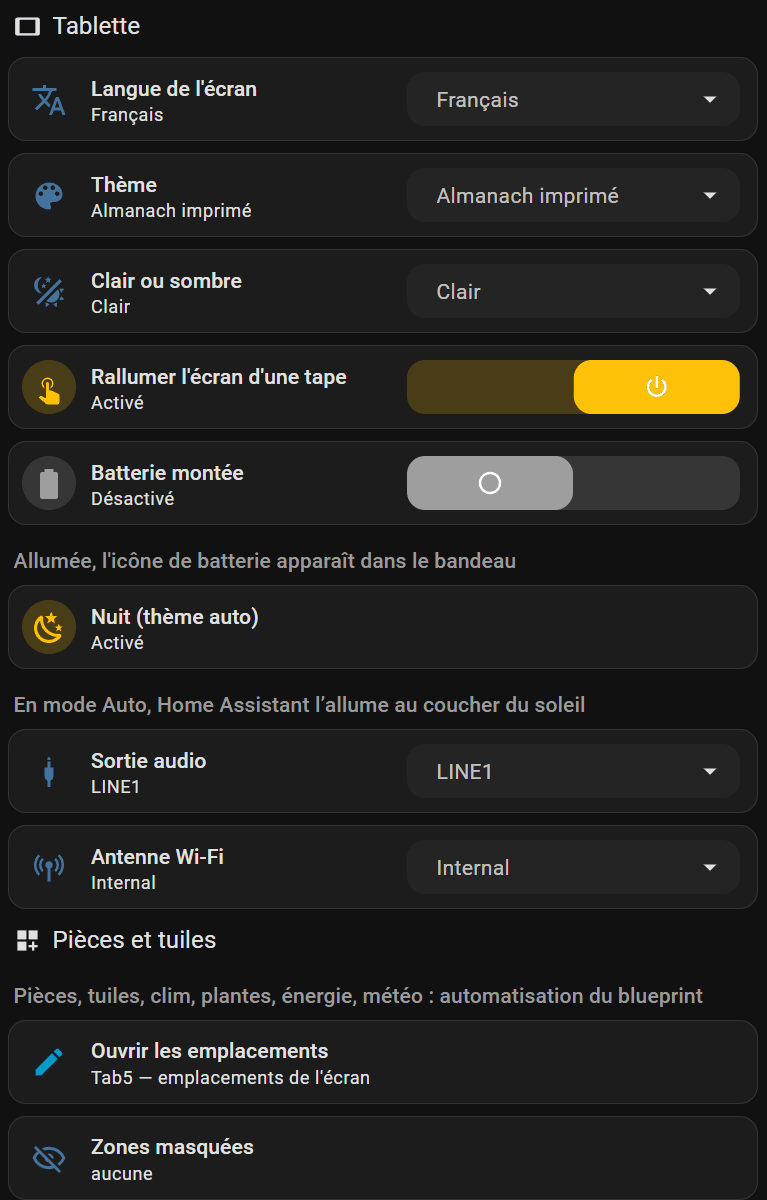
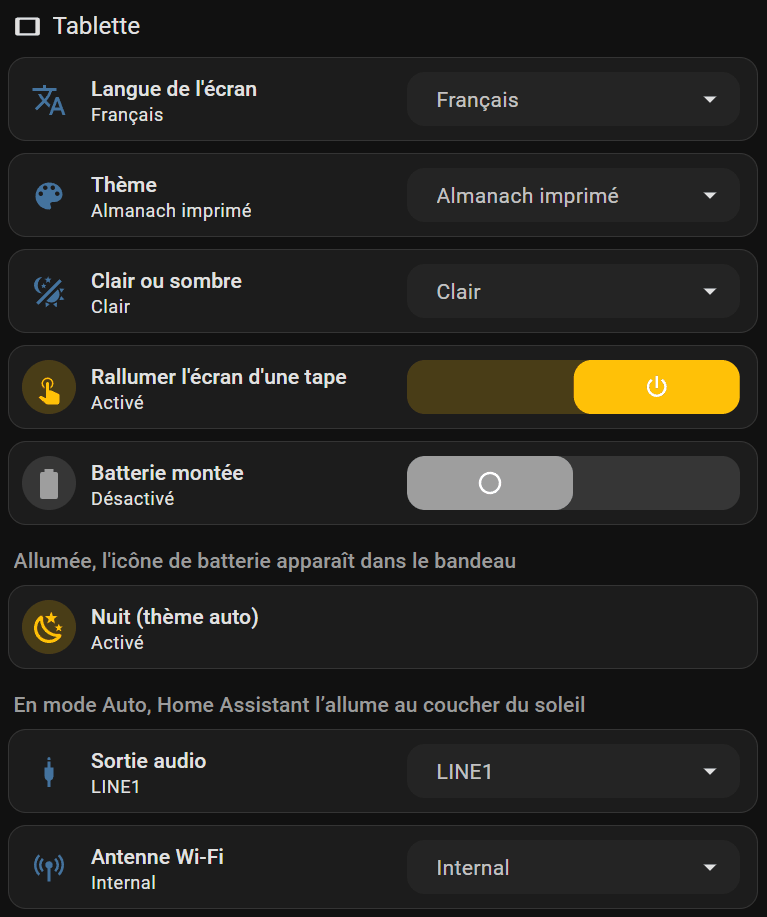
feat(ha): vue Réglages du tableau de bord, tout pour régler la tablette (#326)
* feat(ha): vue Réglages du tableau de bord, tout pour régler la tablette

Remarque d'Axel : dans la vue Réglages, rien ne disait où brancher ses
panneaux solaires ni où donner leur puissance crête ; même chose pour les
capteurs, et pas de lien vers la tablette dans ESPHome.

- « Régler la tablette » en tête : les trois endroits où tout se règle,
  liens vers la page de l'appareil (device_id), la connexion ESPHome
  (config_entry_id), l'automatisation des emplacements et la doc.
- « Ce que l'écran affiche » : chaque section du blueprint, ce qu'on y
  choisit, ce qui apparaît ; lien et « Zones masquées » (déplacés de la
  colonne Tablette). Aucun modèle de HA ne lit les choix d'un blueprint :
  la vue explique, elle ne montre pas (@limite dans l'en-tête).
- « Énergie solaire » : puissance, crête en kWc (0 = pas d'icône), popup,
  liens vers les emplacements et le tableau Énergie ; avertissement sans
  le package tab5_energie.
- « En bref » : automatisation des emplacements (active, désactivée,
  absente) et zones masquées. Explications et liens pour la météo, la
  maison, les agendas et la voix.
- Doc : description de la vue (EN, FR), capture de la colonne Tablette
  recadrée (sans « Pièces et tuiles », parti dans sa propre section).
- Tests : nouveaux liens, avertissement sans package, ancres de la doc
  existantes (titres de docs/installation.md, français et anglais).

* fix(ha): espaces insécables dans les guillemets des textes de Réglages
[…]

diff --git a/tests/test_tableau_de_bord.py b/tests/test_tableau_de_bord.py
@@ -252,6 +252,7 @@ def _rendre(maison, **variables):
         integration_entities=lambda domaine: list(modeles) if domaine == "esphome" else [],
         device_attr=lambda e, nom: modeles.get(e) if nom == "model" else None,
         device_id=lambda e: appareils.get(e),
+        config_entry_id=lambda e: f"entree_{appareils[e]}" if e in appareils else None,
         device_entities=lambda appareil: [e for e, a in appareils.items() if a == appareil],
     )
     env.tests.update(match=lambda v, motif, ignorecase=False: bool(re.match(motif, str(v), re.I if ignorecase else 0)))
@@ -304,6 +305,13 @@ def test_rendu_complet(langue):
     assert _cartes(tableau) > 120
     # L'automatisation du blueprint : sa tuile, et le lien vers son éditeur.
     assert "automation.ecran_du_bureau" in references and "/config/automation/edit/1700000000001" in chemins
+    # Réglages : la page de la tablette et sa connexion ESPHome, l'énergie solaire et ses liens.
+    assert {"/config/devices/device/tab5", "/config/integrations/integration/esphome#config_entry=entree_tab5",
+            "/config/energy", "/config/voice-assistants/assistants"} <= set(chemins), chemins
+    reglages = yaml.safe_dump(tableau["views"][1], allow_unicode=True)
+    assert ("Énergie solaire" if langue == "Français" else "Solar energy") in reglages
+    assert "Puissance crête" in reglages if langue == "Français" else "Panel peak power" in reglages
+    assert "tab5_energie" not in reglages, "package présent : pas d'avertissement"
     # Chaque tuile ou raccourci écrit sa largeur, sauf une tuile à commande en ligne
     # (12 colonnes au minimum) : sans elle, le frontend lui donne 6 colonnes sur 12.
     sans_largeur = [c.get("entity") or c.get("label") for c in _toutes_les_cartes(tableau)
@@ -326,6 +334,25 @@ def test_tablette_seule_sans_package():
     assert not any("tab5_" in e and APPAREIL not in e for e in references), "carte d'un package absent"
     assert "annonce_vocale" not in str(tableau)
     assert "/config/blueprint/dashboard" in str(tableau), "sans automatisation du blueprint, le lien va aux blueprints"
+    assert "Package tab5_energie absent" in str(tableau), "sans le package, la section Énergie le dit"
+    assert "pas encore créés" in str(tableau), "« En bref » dit que les emplacements manquent"
+
+
+def _ancre_github(titre: str) -> str:
+    """Ancre d'un titre Markdown sur GitHub : minuscules, ponctuation retirée (lettres
+    accentuées gardées), espaces en tirets."""
+    return re.sub(r"[^\w\- ]", "", titre.strip().lower()).replace(" ", "-")
+
+
+def test_liens_de_la_doc_vers_des_titres_existants():
+    """Chaque lien du tableau de bord vers docs/installation.md vise un titre qui existe,
+    en français comme en anglais : un titre renommé casserait le lien sans bruit."""
+    doc = (REPO / "docs" / "installation.md").read_text(encoding="utf-8")
+    ancres = {_ancre_github(m) for m in re.findall(r"^#{1,4} (.+)$", doc, re.M)}
+    liens = re.findall(r"doc\('([^']+)', '([^']+)'\)", _texte())
+    assert len(liens) >= 4, liens
+    manquantes = sorted({a for paire in liens for a in paire} - ancres)
+    assert not manquantes, manquantes
 
 
 def test_sans_tablette():

diff --git a/docs/installation.md b/docs/installation.md
@@ -158,7 +158,7 @@ The network is kept across updates. The fallback AP comes back whenever the tabl
 
 ## Step 7 — A Home Assistant dashboard for the tablet (optional)
 
-Every setting of the tablet in one Home Assistant dashboard: a **Tab5** view for daily use (brightness, volume, screen shown, alarm, appointments, voice assistant; alert badges only when something is wrong), a **Settings** view (an « At a glance » table of what is chosen, then the screen language, weather, calendars, home, voice and alarm settings) and a **Health** view (connection, performance graphs, network, pushes, health alerts). The tablet's entity ids differ from one home to another (Home Assistant builds them from the room, the device name and the entity name), so the dashboard is not a fixed file: the macro `custom_templates/tab5_dashboard.jinja`, unzipped with the archive, writes it with your entities.
+Every setting of the tablet in one Home Assistant dashboard: a **Tab5** view for daily use (brightness, volume, screen shown, alarm, appointments, voice assistant; alert badges only when something is wrong), a **Settings** view (how to set up the tablet, with links to its device page, its ESPHome connection, the screen slots automation and this guide; an « At a glance » table of what is chosen; what each section of the screen slots shows and how to set up solar panels; then the screen language, weather, calendars, home, voice and alarm settings, each with a short explanation) and a **Health** view (connection, performance graphs, network, pushes, health alerts). The tablet's entity ids differ from one home to another (Home Assistant builds them from the room, the device name and the entity name), so the dashboard is not a fixed file: the macro `custom_templates/tab5_dashboard.jinja`, unzipped with the archive, writes it with your entities.
 
 1. *Settings → Dashboards → Add dashboard → New dashboard from scratch*, title **Tab5** (its address becomes `/dashboard-tab5`).
 2. *Developer tools → Template*: replace the editor content with this line, then copy the result shown on the right.
@@ -172,7 +172,7 @@ Every setting of the tablet in one Home Assistant dashboard: a **Tab5** view for
 
 ![Health view of the dashboard: connection to Home Assistant, boot reason, Home Assistant files, loop time, free memory and processor temperature over 24 h](images/ha_sante.png)
 
-A card only appears when its entity exists (TV, shutter, battery…); the battery entities are disabled by default, enable them if a battery is fitted. The rooms and tiles are set in the blueprint automation (a link in Settings). Two settings stay on the tablet only: the text size of the assistant popup and a custom choice of alarm days. After an update that adds entities, do items 2 and 3 again. « TemplateNotFound: tab5_dashboard.jinja »: the macro is loaded when Home Assistant starts; restart it, or run the action `homeassistant.reload_custom_templates`.
+A card only appears when its entity exists (TV, shutter, battery…); the battery entities are disabled by default, enable them if a battery is fitted. The rooms, tiles, sensors and solar panels are set in the blueprint automation (links and explanations in Settings: no template can read its choices, so the dashboard explains each section rather than showing them; the « Hidden zones » sensor says what is missing). Two settings stay on the tablet only: the text size of the assistant popup and a custom choice of alarm days. After an update that adds entities, do items 2 and 3 again. « TemplateNotFound: tab5_dashboard.jinja »: the macro is loaded when Home Assistant starts; restart it, or run the action `homeassistant.reload_custom_templates`.
 
 ## Tablet settings and options
 
@@ -538,7 +538,7 @@ Le réseau est gardé d'une mise à jour à l'autre. L'AP de secours revient dè
 
 ## Étape 7 — Un tableau de bord Home Assistant pour la tablette (facultatif)
 
-Tous les réglages de la tablette dans un tableau de bord Home Assistant : une vue **Tab5** pour l'usage courant (luminosité, volume, écran affiché, réveil, rendez-vous, assistant vocal ; des pastilles d'alerte seulement quand quelque chose cloche), une vue **Réglages** (un tableau « En bref » de ce qui est choisi, puis la langue de l'écran, la météo, les agendas, la maison, la voix et le réveil) et une vue **Santé** (liaison, courbes de performances, réseau, poussées, alertes de santé). Les entity_id de la tablette changent d'une maison à l'autre (Home Assistant les forme avec la pièce, le nom de l'appareil et celui de l'entité) : le tableau de bord n'est donc pas un fichier figé, c'est la macro `custom_templates/tab5_dashboard.jinja`, décompressée avec l'archive, qui l'écrit avec vos entités.
+Tous les réglages de la tablette dans un tableau de bord Home Assistant : une vue **Tab5** pour l'usage courant (luminosité, volume, écran affiché, réveil, rendez-vous, assistant vocal ; des pastilles d'alerte seulement quand quelque chose cloche), une vue **Réglages** (comment régler la tablette, avec des liens vers la page de son appareil, sa connexion ESPHome, l'automatisation des emplacements et ce guide ; un tableau « En bref » de ce qui est choisi ; ce que montre chaque section des emplacements et comment régler des panneaux solaires ; puis la langue de l'écran, la météo, les agendas, la maison, la voix et le réveil, chacun avec une courte explication) et une vue **Santé** (liaison, courbes de performances, réseau, poussées, alertes de santé). Les entity_id de la tablette changent d'une maison à l'autre (Home Assistant les forme avec la pièce, le nom de l'appareil et celui de l'entité) : le tableau de bord n'est donc pas un fichier figé, c'est la macro `custom_templates/tab5_dashboard.jinja`, décompressée avec l'archive, qui l'écrit avec vos entités.
 
 1. *Paramètres → Tableaux de bord → Ajouter un tableau de bord → Nouveau tableau de bord à partir de zéro*, titre **Tab5** (son adresse devient `/dashboard-tab5`).
 2. *Outils de développement → Modèle* : remplacez le contenu de l'éditeur par cette ligne, puis copiez le résultat affiché à droite.
@@ -552,7 +552,7 @@ Tous les réglages de la tablette dans un tableau de bord Home Assistant : une v
 
 ![Vue Santé du tableau de bord : liaison avec Home Assistant, raison du démarrage, fichiers Home Assistant, temps de boucle, mémoire libre et température du processeur sur 24 h](images/ha_sante.png)
 
-Une carte n'apparaît que si son entité existe (TV, volet, batterie…) ; les entités de la batterie sont désactivées par défaut, activez-les si une batterie est montée. Les pièces et les tuiles se règlent dans l'automatisation du blueprint (un lien dans Réglages). Deux réglages restent sur la tablette seulement : la taille du texte du popup de l'assistant et un choix personnalisé des jours du réveil. Après une mise à jour qui ajoute des entités, refaites les points 2 et 3. « TemplateNotFound: tab5_dashboard.jinja » : la macro est chargée au démarrage de Home Assistant ; redémarrez-le, ou lancez l'action `homeassistant.reload_custom_templates`.
+Une carte n'apparaît que si son entité existe (TV, volet, batterie…) ; les entités de la batterie sont désactivées par défaut, activez-les si une batterie est montée. Les pièces, les tuiles, les capteurs et les panneaux solaires se règlent dans l'automatisation du blueprint (liens et explications dans Réglages : aucun modèle ne peut lire ses choix, le tableau de bord explique donc chaque section au lieu de les montrer ; le capteur « Zones masquées » dit ce qui manque). Deux réglages restent sur la tablette seulement : la taille du texte du popup de l'assistant et un choix personnalisé des jours du réveil. Après une mise à jour qui ajoute des entités, refaites les points 2 et 3. « TemplateNotFound: tab5_dashboard.jinja » : la macro est chargée au démarrage de Home Assistant ; redémarrez-le, ou lancez l'action `homeassistant.reload_custom_templates`.
 
 ## Réglages et options de la tablette
 

diff --git a/CHANGELOG.md b/CHANGELOG.md
@@ -4,6 +4,26 @@ Format based on [Keep a Changelog](https://keepachangelog.com/en/1.1.0/). Dates 
 
 ## [Unreleased]
 
+### 2026-10-05 — Tableau de bord HA : tout pour régler la tablette dans « Réglages »
+
+Remarque d'Axel : dans la vue Réglages, rien ne disait où brancher ses panneaux solaires
+ni où donner leur puissance crête (l'icône du bandeau) ; même chose pour les capteurs.
+- **Régler la tablette** (en tête) : les trois endroits où tout se règle, et des liens vers
+  la page de la tablette (intégration ESPHome : réglages, diagnostic, mises à jour), sa
+  connexion ESPHome, l'automatisation des emplacements et la documentation.
+- **Ce que l'écran affiche** : chaque section du blueprint « Tab5 — emplacements » (pièces,
+  TV et téléphone, températures, clim, plantes, planning, météo, énergie), ce qu'on y
+  choisit et ce qui apparaît à l'écran, puis le lien et « Zones masquées ». Aucun modèle
+  de HA ne lit les choix d'un blueprint : la vue les explique, elle ne peut pas les montrer.
+- **Énergie solaire** : puissance solaire, puissance crête (kWc, 0 = pas d'icône), popup
+  Énergie, pas à pas ; liens vers les emplacements et le tableau Énergie de HA ;
+  avertissement si le package `tab5_energie` manque.
+- « En bref » dit si l'automatisation des emplacements existe et tourne, et les zones
+  masquées ; courtes explications et liens pour la météo, la maison (téléphone, présence),
+  les agendas (ajouter une intégration) et la voix (assistants vocaux de HA).
+- `tests/test_tableau_de_bord.py` : les nouveaux liens, l'avertissement sans le package, et
+  chaque lien vers `docs/installation.md` vise un titre qui existe (français et anglais).
+
 ## [3.6.0] — 2026-10-05
 
 De `v3.5.0` à aujourd'hui : vingt-huit pull requests (#296 → #319, #321 → #325), dont sept nées
